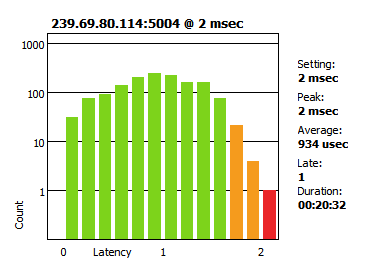
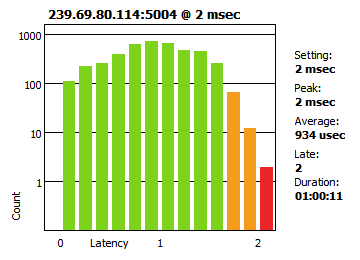
Updated screenshot

Changed region(s): [[0.0306, 0.0308, 0.7639, 0.9538], [0.7944, 0.1846, 0.9778, 0.7692], [0.0306, 0.7077, 0.0917, 0.8615]]

diff --git a/README.md b/README.md
@@ -39,6 +39,6 @@ Index, Name, # of Channels
 We see the Focusrite interface is index #1, so we can execute the following command to start *aes67-sender*: `sudo node aes67 -a alsa -d 1 -n "Focusrite Scarlett 2i2"`. The device should now show up as "Focusrite Scarlett 2i2" in Dante Controller or similar software. The two inputs of the Focusrite Scarlett 2i2 are now available in the AES67 network.
 
 ### Latency cosiderations
-In practice low latency is important. Especially when working in a hybrid Dante/AES67 network, latency should be under 2ms. Dante devices are fixed to a maximum of 2ms latency and drop packets with higher latency. With a Raspberry Pi, latency jitter is quite high. A lot/too many packets are dropped because latency is too high when sending audio to a Dante receiver. With a i7-2600 test system (running Ubuntu 18.04), latency (jitter) was low enough for Dante devices. Here is a screenshot of the latency distribution over 20 minutes from *aes67-sender* running on a i7-2600 test system to a Dante receiver:
+In practice low latency is important. Especially when working in a hybrid Dante/AES67 network, latency should be under 2ms. Dante devices are fixed to a maximum of 2ms latency and drop packets with higher latency. With a Raspberry Pi, latency jitter is quite high. A lot/too many packets are dropped because latency is too high when sending audio to a Dante receiver. With a i7-2600 test system (running Ubuntu 18.04), latency (jitter) was low enough for Dante devices. Here is a screenshot of the latency distribution over one hour from *aes67-sender* running on a i7-2600 test system to a Dante receiver:
 
 ![Screenshot](doc/dante-latency.png "dante-latency")
